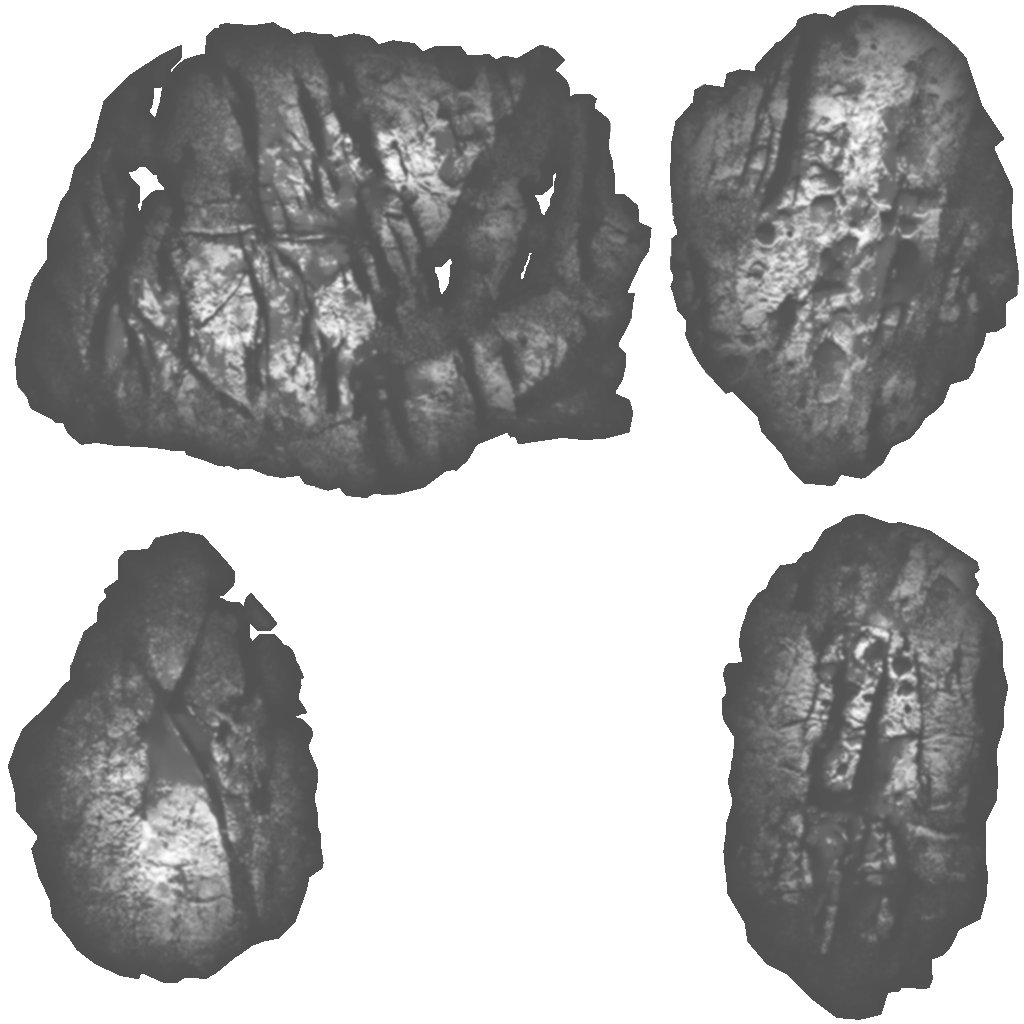
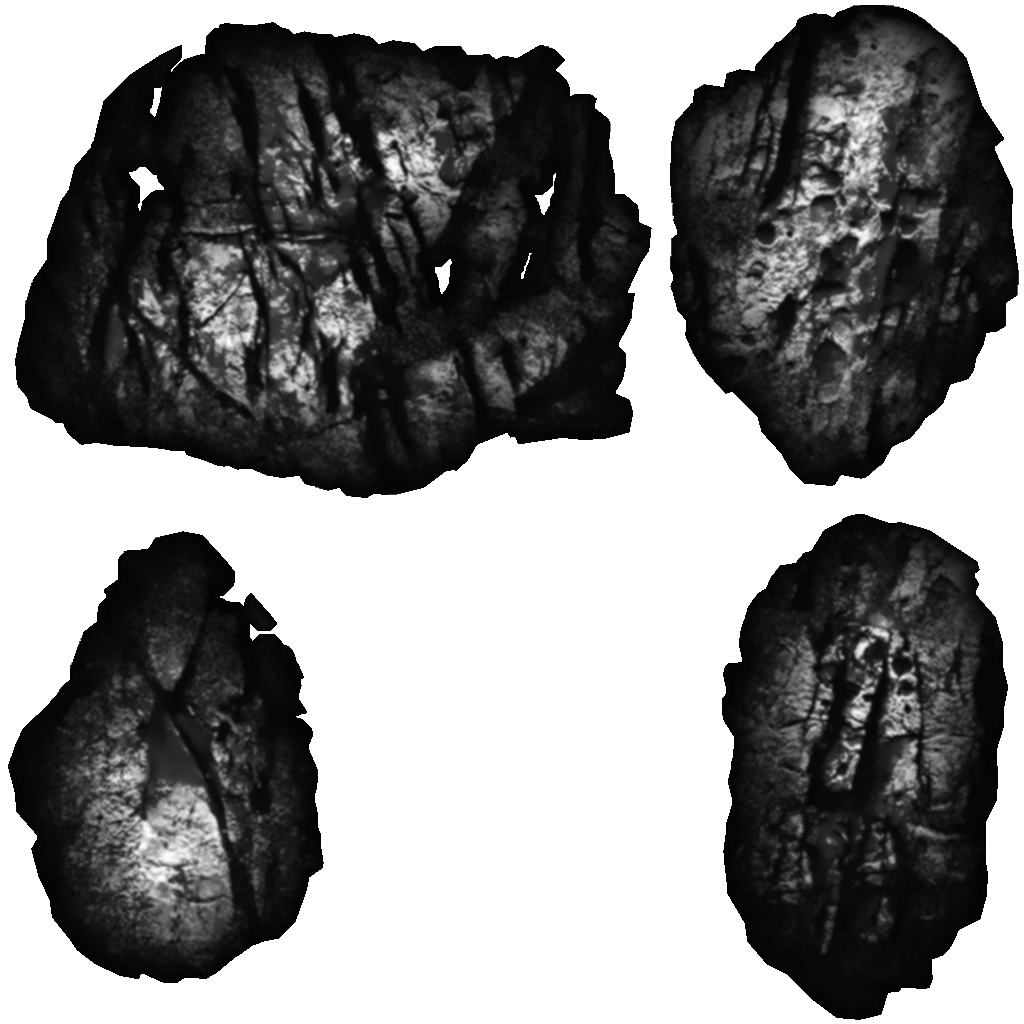
Fixed levelobject speculars going over the submarine's outer walls, added specular maps to level walls

diff --git a/Barotrauma/BarotraumaClient/Source/Map/Lights/LightManager.cs b/Barotrauma/BarotraumaClient/Source/Map/Lights/LightManager.cs
@@ -20,18 +20,9 @@ namespace Barotrauma.Lights
         /// the time being because it makes the lighting behave unpredictably and may cause rooms to appear
         /// excessively bright if different lighting conditions aren't tested and accounted for.
         /// </summary>
-        private static bool UseHullSpecificAmbientLight = false;
+        private static readonly bool UseHullSpecificAmbientLight = false;
 
-        private static Entity viewTarget;
-
-        public static Entity ViewTarget
-        {
-            get { return viewTarget; }
-            set {
-                if (viewTarget == value) return;
-                viewTarget = value; 
-            }
-        }
+        public static Entity ViewTarget { get; set; }
 
         private float currLightMapScale;
 
@@ -55,10 +46,7 @@ namespace Barotrauma.Lights
 
         private BasicEffect lightEffect;
 
-        public Effect LosEffect
-        {
-            get; private set;
-        }
+        public Effect LosEffect { get; private set; }
         
         private List<LightSource> lights;
 
@@ -70,7 +58,6 @@ namespace Barotrauma.Lights
         public bool ObstructVision;
 
         private Texture2D visionCircle;
-
         
         private Dictionary<Hull, Color> hullAmbientLights;
         private Dictionary<Hull, Color> smoothedHullAmbientLights;
@@ -99,11 +86,12 @@ namespace Barotrauma.Lights
 
             if (lightEffect == null)
             {
-                lightEffect = new BasicEffect(GameMain.Instance.GraphicsDevice);
-                lightEffect.VertexColorEnabled = true;
-
-                lightEffect.TextureEnabled = true;
-                lightEffect.Texture = LightSource.LightTexture;
+                lightEffect = new BasicEffect(GameMain.Instance.GraphicsDevice)
+                {
+                    VertexColorEnabled = true,
+                    TextureEnabled = true,
+                    Texture = LightSource.LightTexture
+                };
             }
 
             hullAmbientLights = new Dictionary<Hull, Color>();
@@ -394,7 +382,7 @@ namespace Barotrauma.Lights
             graphics.SetRenderTarget(SpecularMap);
             
             //clear the lightmap
-            graphics.Clear(Color.Gray);
+            graphics.Clear(Color.Black);
             graphics.BlendState = BlendState.AlphaBlend;
 
             spriteBatch.Begin(sortMode: SpriteSortMode.Deferred, blendState: BlendState.AlphaBlend, transformMatrix: spriteBatchTransform);
@@ -403,40 +391,21 @@ namespace Barotrauma.Lights
             {
                 Level.Loaded.LevelObjectManager.DrawObjects(spriteBatch, cam, drawFront: false, specular: true);
             }
-            
-            Dictionary<Hull, Rectangle> visibleHulls = new Dictionary<Hull, Rectangle>();
-            foreach (Hull hull in Hull.hullList)
-            {
-                var drawRect =
-                    hull.Submarine == null ?
-                    hull.Rect :
-                    new Rectangle((int)(hull.Submarine.DrawPosition.X + hull.Rect.X), (int)(hull.Submarine.DrawPosition.Y + hull.Rect.Y), hull.Rect.Width, hull.Rect.Height);
-
-                if (drawRect.Right < cam.WorldView.X || drawRect.X > cam.WorldView.Right ||
-                    drawRect.Y - drawRect.Height > cam.WorldView.Y || drawRect.Y < cam.WorldView.Y - cam.WorldView.Height)
-                {
-                    continue;
-                }
-                visibleHulls.Add(hull, drawRect);
-            }
-            
-            foreach (Rectangle drawRect in visibleHulls.Values)
-            {
-                GUI.DrawRectangle(spriteBatch,
-                    new Vector2(drawRect.X, -drawRect.Y),
-                    new Vector2(drawRect.Width, drawRect.Height),
-                    Color.Gray, true);
-            }
             spriteBatch.End();
-
-            //TODO: use renderTargetFront to obstruct the things behind the sub (has to be drawn with a solid gray color)
-            /*spriteBatch.Begin(SpriteSortMode.Deferred, BlendState.AlphaBlend);
-            spriteBatch.Draw(renderTargetFront, new Rectangle(0, 0,
-                (int)(GameMain.GraphicsWidth * currLightMapScale), (int)(GameMain.GraphicsHeight * currLightMapScale)), Color.White);
-            spriteBatch.End();*/
 
             //TODO: specular maps for level walls
             Level.Loaded?.Renderer?.RenderWalls(graphics, cam, specular: true);
+
+            spriteBatch.Begin(SpriteSortMode.Deferred, BlendState.AlphaBlend);
+            if (backgroundObstructor != null)
+            {
+                spriteBatch.Draw(backgroundObstructor, new Rectangle(0, 0,
+                    (int)(GameMain.GraphicsWidth * currLightMapScale), (int)(GameMain.GraphicsHeight * currLightMapScale)), Color.Black);
+            }
+            GUI.DrawRectangle(spriteBatch, new Rectangle(0, 0,
+                    (int)(GameMain.GraphicsWidth * currLightMapScale), (int)(GameMain.GraphicsHeight * currLightMapScale)),
+                    Color.White * 0.4f, isFilled: true);
+            spriteBatch.End();
 
             graphics.SetRenderTarget(null);
             graphics.BlendState = BlendState.AlphaBlend;
@@ -501,7 +470,7 @@ namespace Barotrauma.Lights
                 Matrix shadowTransform = cam.ShaderTransform
                     * Matrix.CreateOrthographic(GameMain.GraphicsWidth, GameMain.GraphicsHeight, -1, 1) * 0.5f;
 
-                var convexHulls = ConvexHull.GetHullsInRange(viewTarget.Position, cam.WorldView.Width*0.75f, viewTarget.Submarine);
+                var convexHulls = ConvexHull.GetHullsInRange(ViewTarget.Position, cam.WorldView.Width*0.75f, ViewTarget.Submarine);
                 if (convexHulls != null)
                 {
                     List<VertexPositionColor> shadowVerts = new List<VertexPositionColor>();

diff --git a/Barotrauma/BarotraumaShared/Source/Map/Levels/LevelGenerationParams.cs b/Barotrauma/BarotraumaShared/Source/Map/Levels/LevelGenerationParams.cs
@@ -346,7 +346,9 @@ namespace Barotrauma
         public Sprite BackgroundSprite { get; private set; }
         public Sprite BackgroundTopSprite { get; private set; }
         public Sprite WallSprite { get; private set; }
+        public Sprite WallSpriteSpecular { get; private set; }
         public Sprite WallEdgeSprite { get; private set; }
+        public Sprite WallEdgeSpriteSpecular { get; private set; }
         public Sprite WaterParticles { get; private set; }
         
         public static List<Biome> GetBiomes()
@@ -419,8 +421,14 @@ namespace Barotrauma
                     case "wall":
                         WallSprite = new Sprite(subElement);
                         break;
+                    case "wallspecular":
+                        WallSpriteSpecular = new Sprite(subElement);
+                        break;
                     case "walledge":
                         WallEdgeSprite = new Sprite(subElement);
+                        break;
+                    case "walledgespecular":
+                        WallEdgeSpriteSpecular = new Sprite(subElement);
                         break;
                     case "waterparticles":
                         WaterParticles = new Sprite(subElement);

diff --git a/Barotrauma/BarotraumaClient/Source/Map/Levels/LevelRenderer.cs b/Barotrauma/BarotraumaClient/Source/Map/Levels/LevelRenderer.cs
@@ -322,8 +322,14 @@ namespace Barotrauma
 
             Matrix transformMatrix = cam.ShaderTransform
                 * Matrix.CreateOrthographic(GameMain.GraphicsWidth, GameMain.GraphicsHeight, -1, 100) * 0.5f;
-                        
+
+            wallEdgeEffect.Texture = specular && level.GenerationParams.WallEdgeSpriteSpecular != null ?
+                level.GenerationParams.WallEdgeSpriteSpecular.Texture :
+                level.GenerationParams.WallEdgeSprite.Texture;
             wallEdgeEffect.World = transformMatrix;
+            wallCenterEffect.Texture = specular && level.GenerationParams.WallSpriteSpecular != null ?
+                level.GenerationParams.WallSpriteSpecular.Texture :
+                level.GenerationParams.WallSprite.Texture;
             wallCenterEffect.World = transformMatrix;
             
             graphicsDevice.SamplerStates[0] = SamplerState.LinearWrap;
